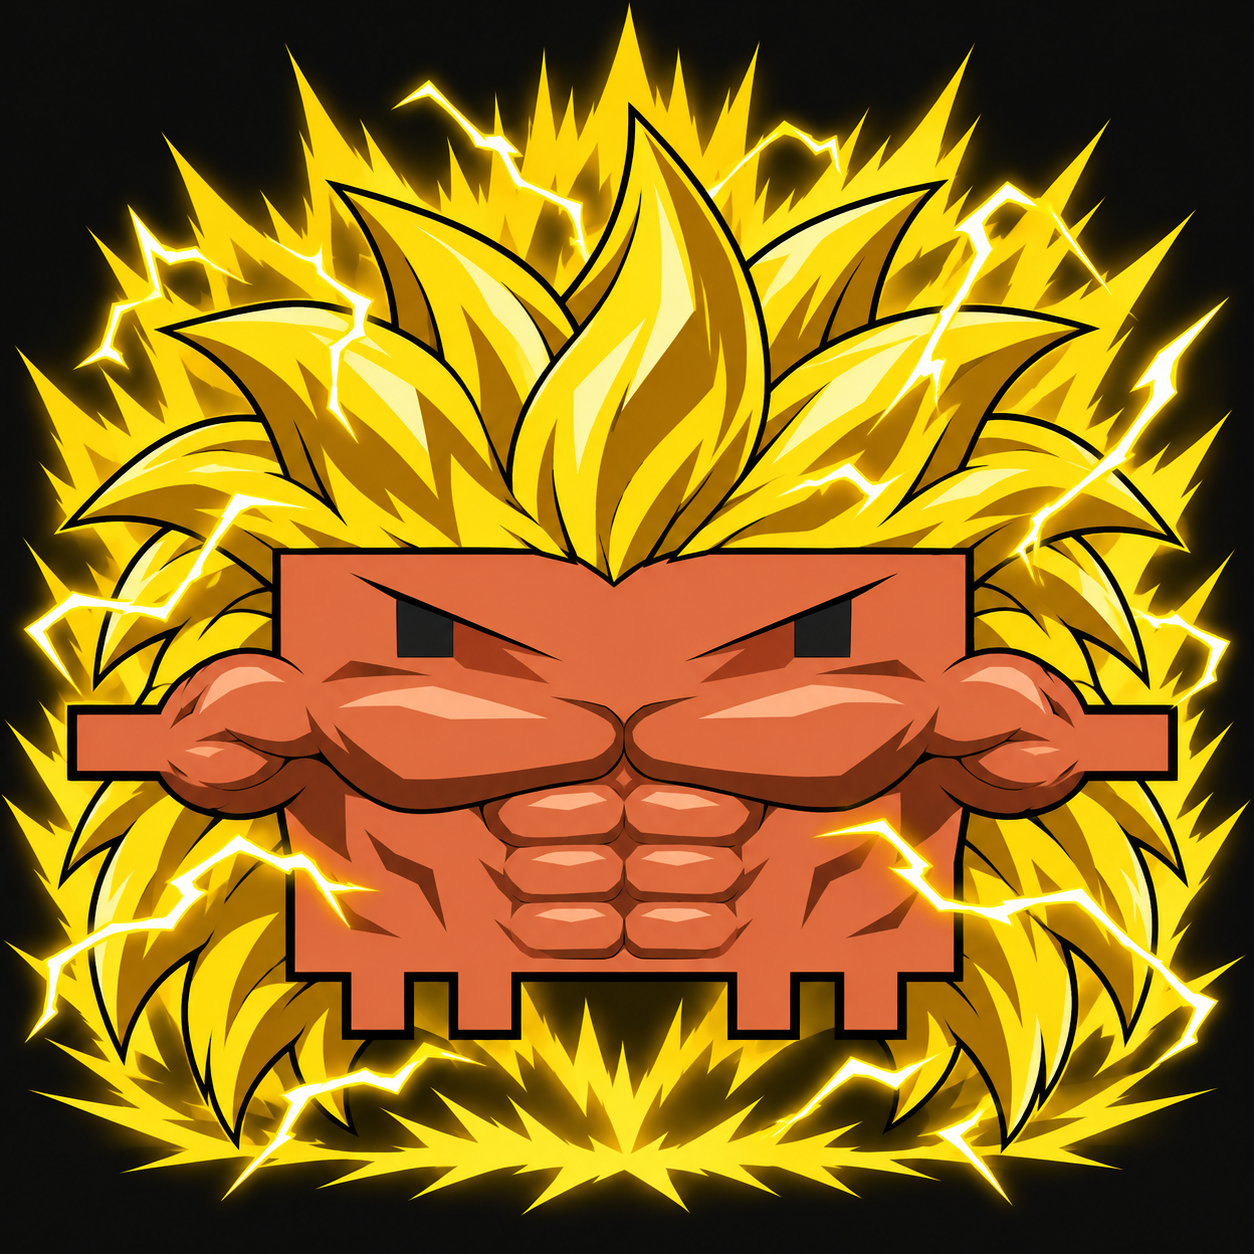
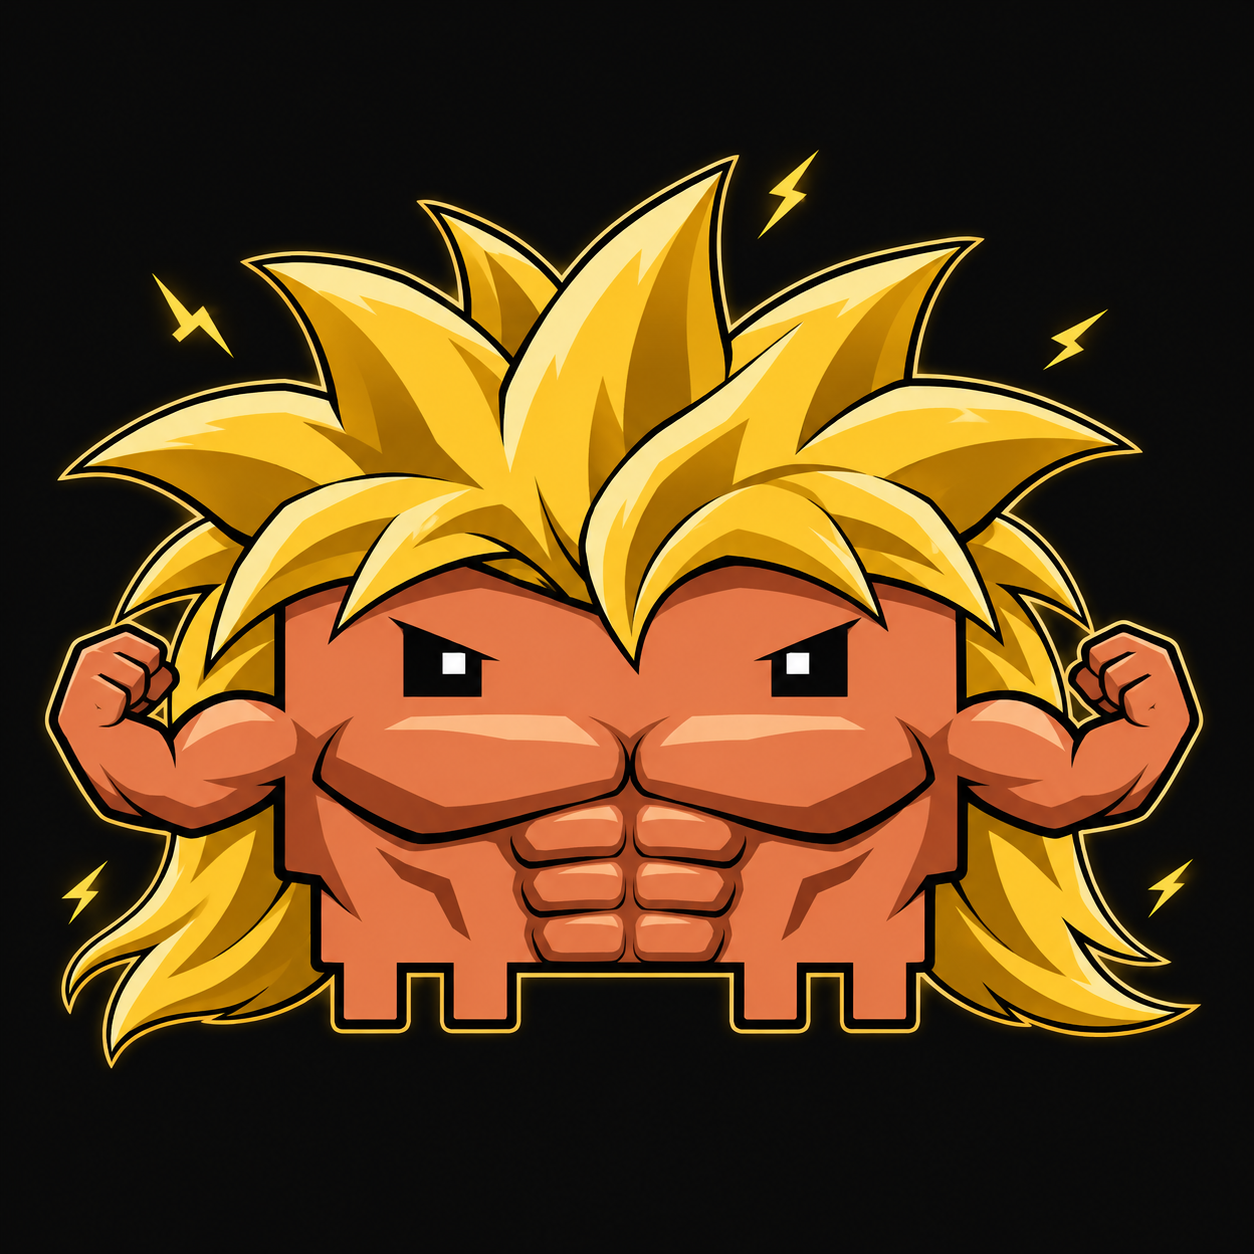
pv: fit wide images to the pane instead of overflowing

diff --git a/art/saiyan/prompts.py b/art/saiyan/prompts.py
@@ -6,12 +6,16 @@ BASE = ("The character is the mascot in Image 1: a small blocky orange (#D97757)
         "(angry eyebrows shapes above the square eyes). Plain flat solid #0E0E0E background, nothing else in the scene, "
         "no text, no human, no existing anime character. Square 1:1 composition with margin around the figure. HAIR RULE: the hair is a big anime power-up hairdo that covers the WHOLE top of the head from edge to edge - 6 to 8 thick sharp spikes fanning upward and outward, each with a darker shade side and a lighter highlight side; never a small tuft or a crown in the middle.")
 LEVELS = {
- "low": "Power level 1: the creature is FAT and round, a soft belly bulging out, chubby little arms. Short spiky golden-yellow "
-        "hair (spikes about half the body height). A calm thin golden flame aura hugging the body. No lightning.",
- "medium": "Power level 2: slimmer than a fat version but still soft, more upright and sharper spiky hair in a DEEPER darker gold, "
-           "a stronger golden flame aura with crackling small blue-white electric sparks around it.",
+ "low": "Power level 1: the creature is FAT and simply ROUND - one smooth round chubby body shape, NO belly patch, NO lighter belly "
+        "area, the whole body one even orange, chubby little arms. Short spiky golden-yellow "
+        "hair (spikes about half the body height). A calm thin golden outline glow hugging the body. No lightning.",
+ "medium": "Power level 2: slightly slimmer than level 1, sharper spiky hair in a DEEPER darker gold. MODEST effects only: a thin "
+           "golden outline glow hugging the body (no big flames), and just 2-3 tiny blue-white electric sparks near the hair. "
+           "Much less spectacular than higher levels.",
  "high": "Power level 3: the creature is MUSCULAR - big pecs, six-pack, bulging arms, flexing. Very LONG golden hair, a huge "
-         "spiky mane flowing down its back almost to the ground, no eyebrows. Intense golden aura with many electric arcs.",
+         "spiky mane flowing down its back almost to the ground, no eyebrows. RESTRAINED effects: a thin golden outline glow and "
+         "4-5 small electric sparks, no big flame aura, no lightning everywhere - the long hair is the star, the effects stay "
+         "weaker than the later red, blue and silver levels.",
  "xhigh": "Power level 4: MUSCULAR but lean and calm, SHORT spiky hair in CRIMSON RED, a soft red-orange flame aura like a "
           "divine fire, a few red embers floating. Serene confident expression.",
  "max": "Power level 5: MUSCULAR, SHORT upright spiky hair in bright CYAN-BLUE, a sharp blue flame aura with a white core, "
